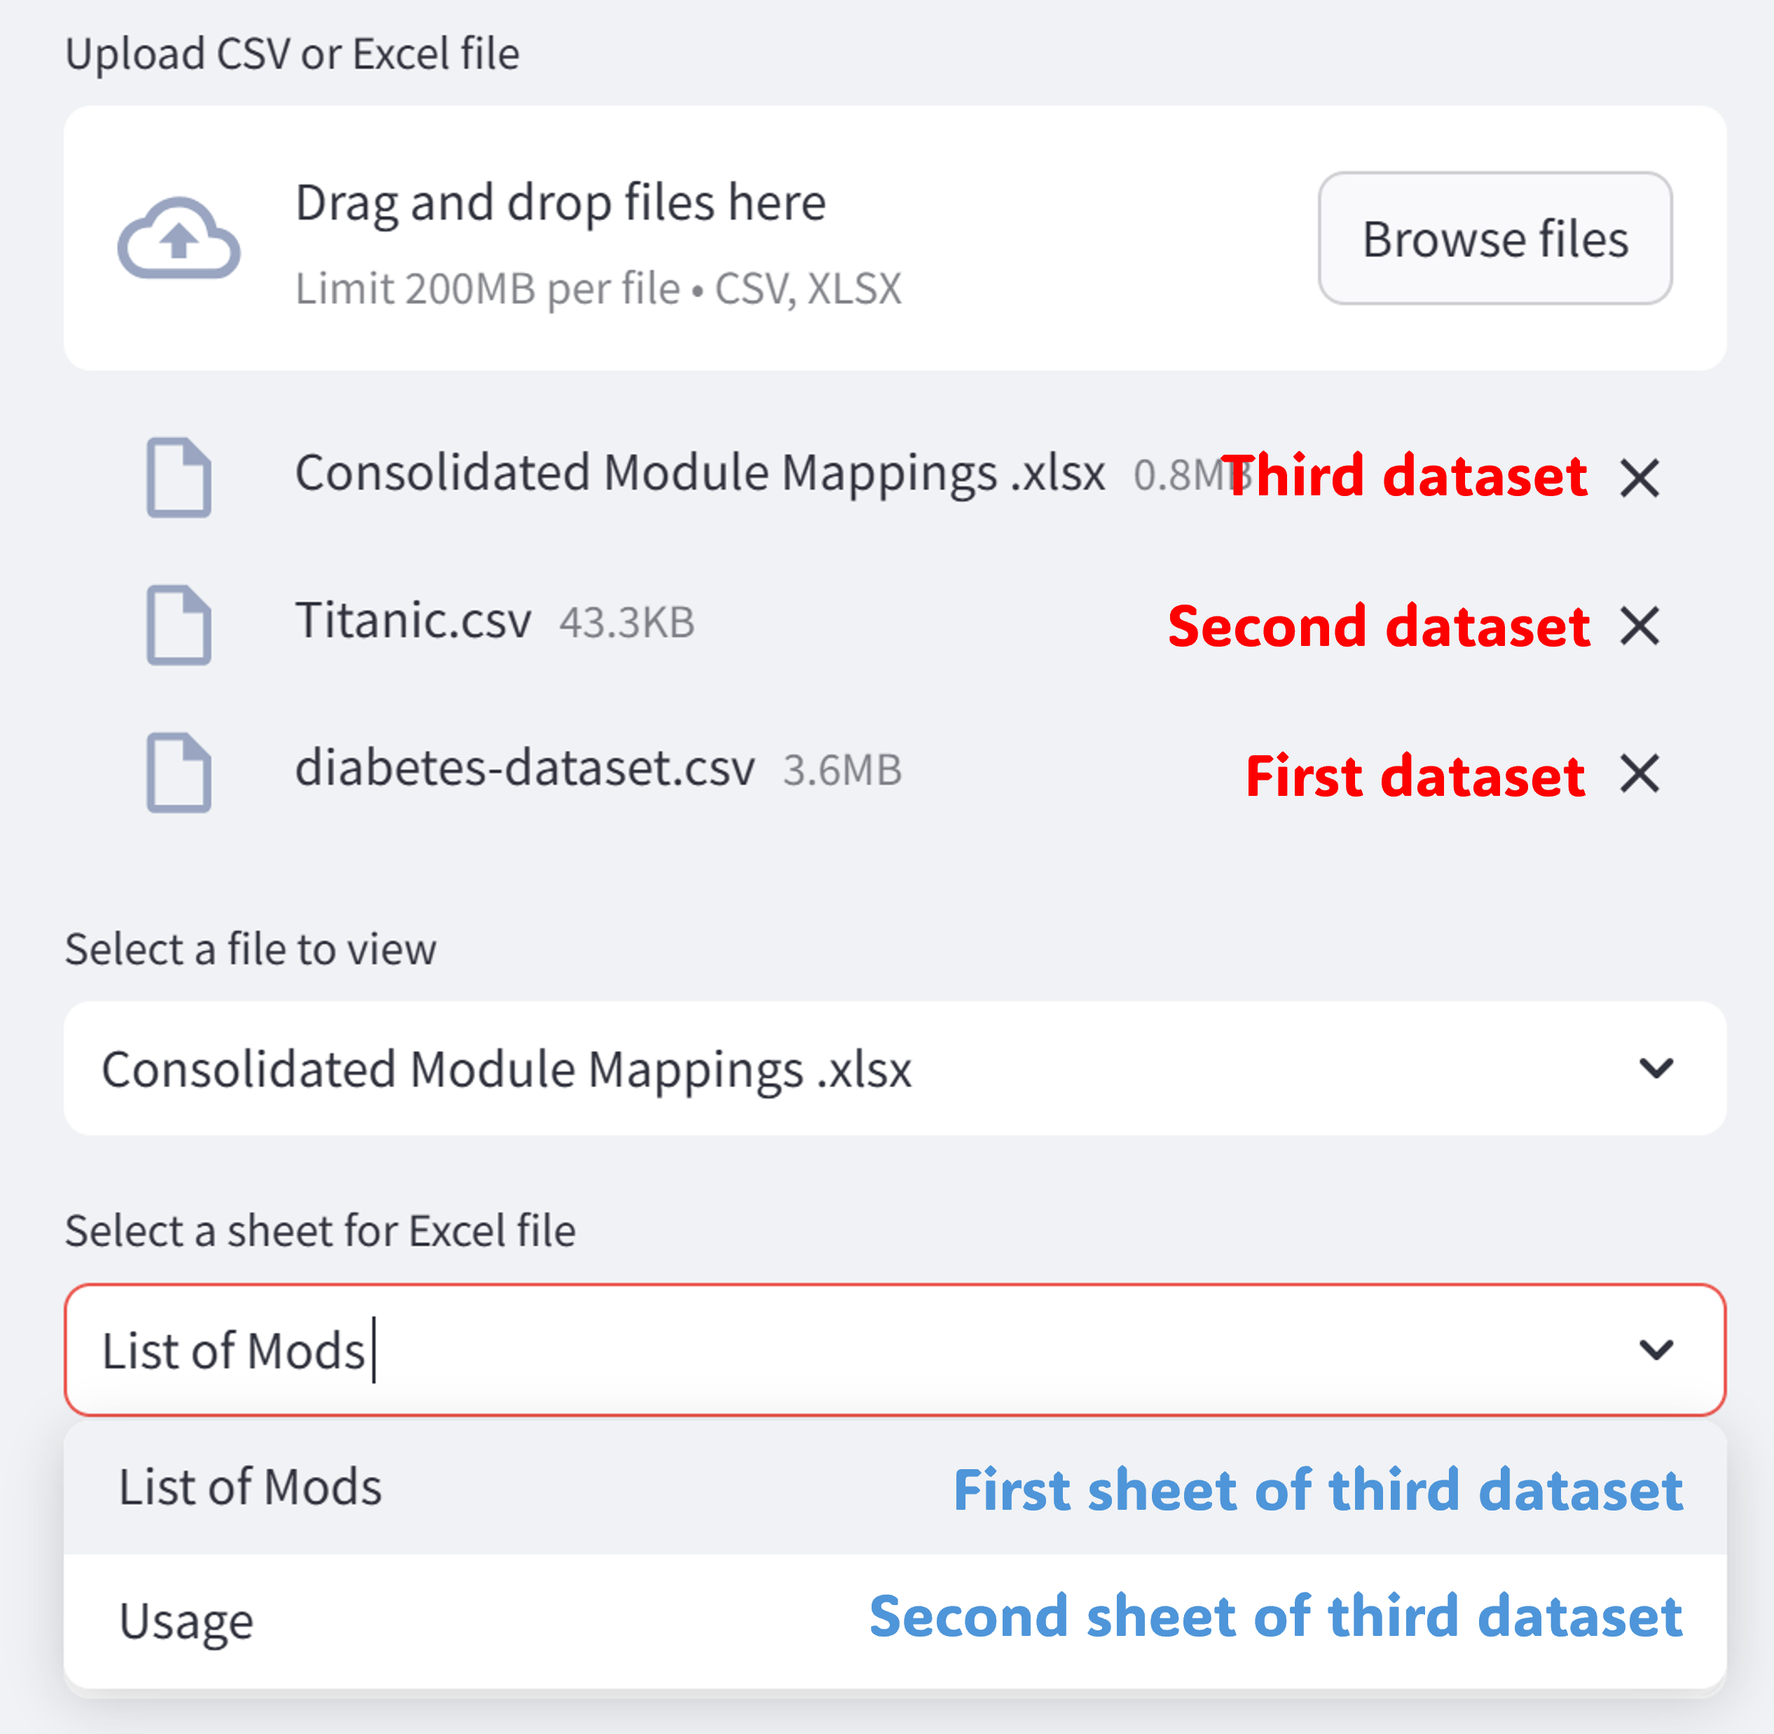
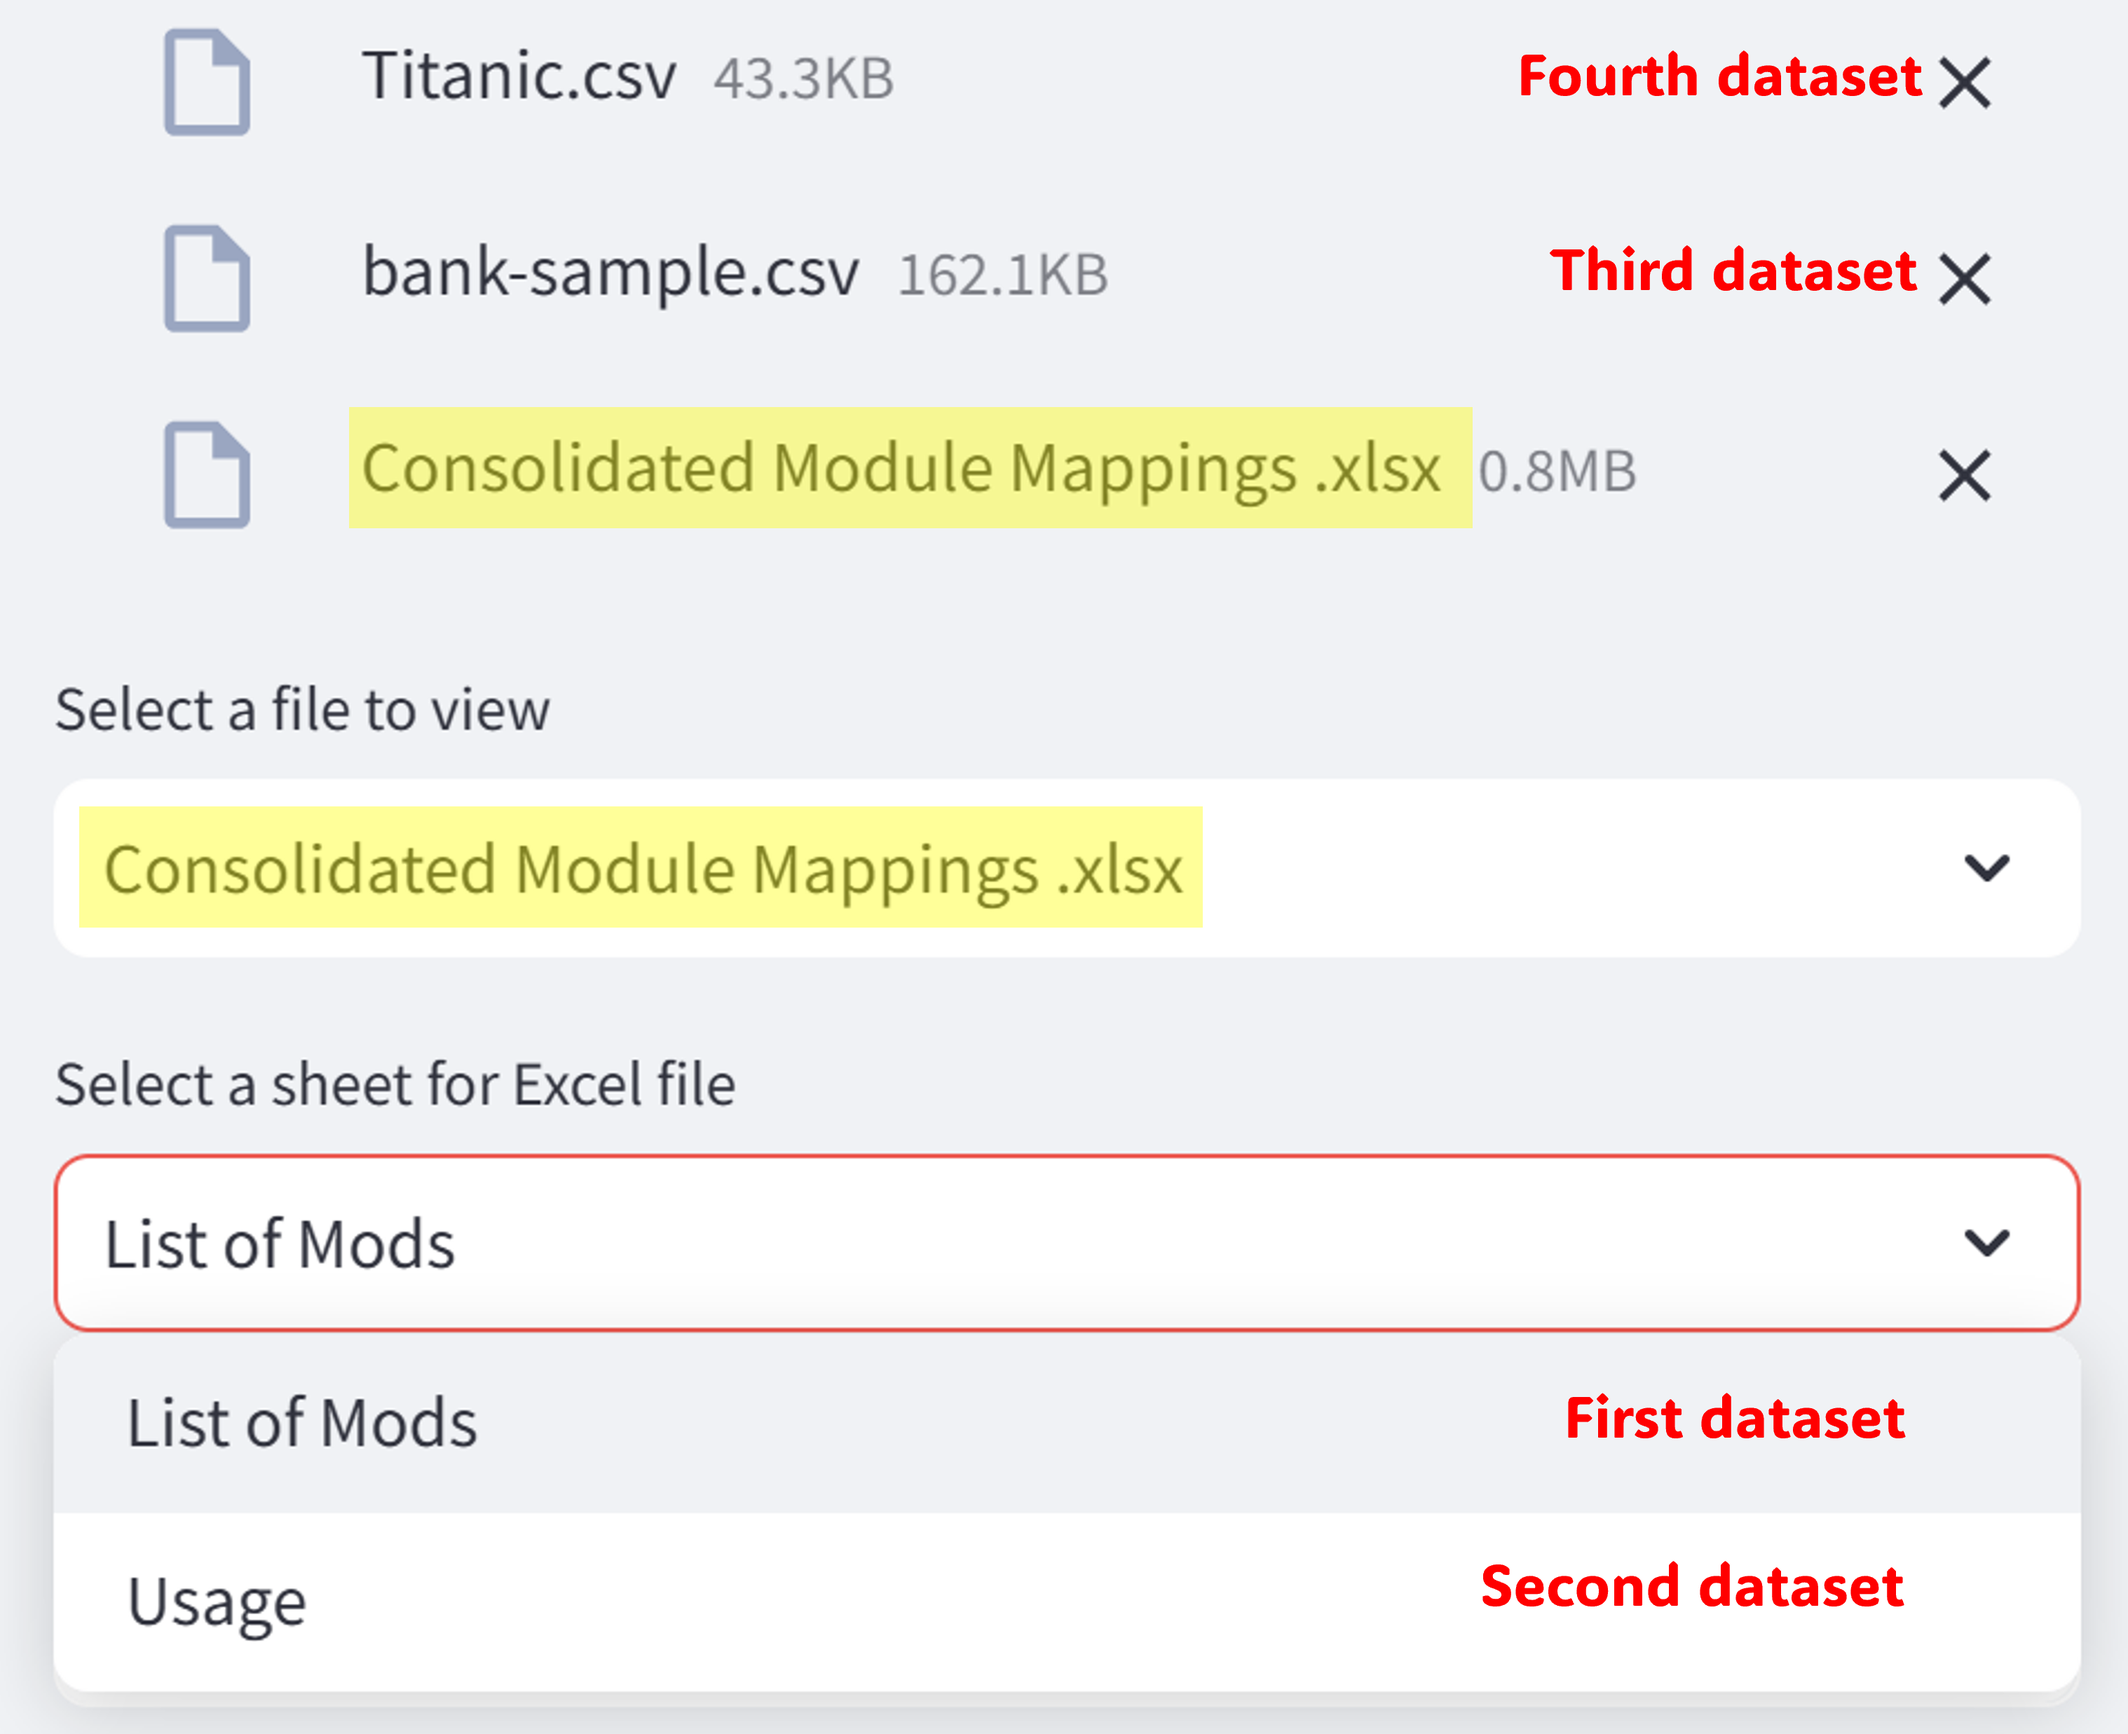
Update README.md
Change URL of webpage.
Modify tips guide.

diff --git a/README.md b/README.md
@@ -15,7 +15,7 @@ Visit our Data Analyzer App and enjoy exploring your data. Currently there are 2
 
     If you prefer a fast and handy application and do not require to store your prompting history, this version is for you. Your privacy is prioritised.
 
-* **_Prompting storage version_** (Deployed on Render): [https://dan-data-analyzer.streamlit.app/](https://dan-data-analyzer.streamlit.app/)
+* **_Prompting storage version_** (Deployed on Render): [https://data-analyzer-ybzy.onrender.com/](https://data-analyzer-ybzy.onrender.com/)
 
     Your prompting history including prompts and responses from the app is saved on the cloud. Kindly navigate to [Warning](#warning-to-be-updated-in-the-future-versions) for security issues.
 
@@ -34,7 +34,7 @@ Visit our Data Analyzer App and enjoy exploring your data. Currently there are 2
 >
 > 1. As you are able to upload multiple datasets, you are suggested to refer to the specific datasets for each prompt for more accurate and relevant response from our agent. 
 >
->       Currently, the datasets and sheets from each dataset can only be referred to by ordinal numbers instead of their names.
+>       Currently, each sheet in an excel file is considered as a separate dataset and you can refer to each dataset by the **ordinal number** according to the order of being uploaded. Kindly refer to the image for clarification.
 > ![tips1](./images/tips1.png)
 
 
